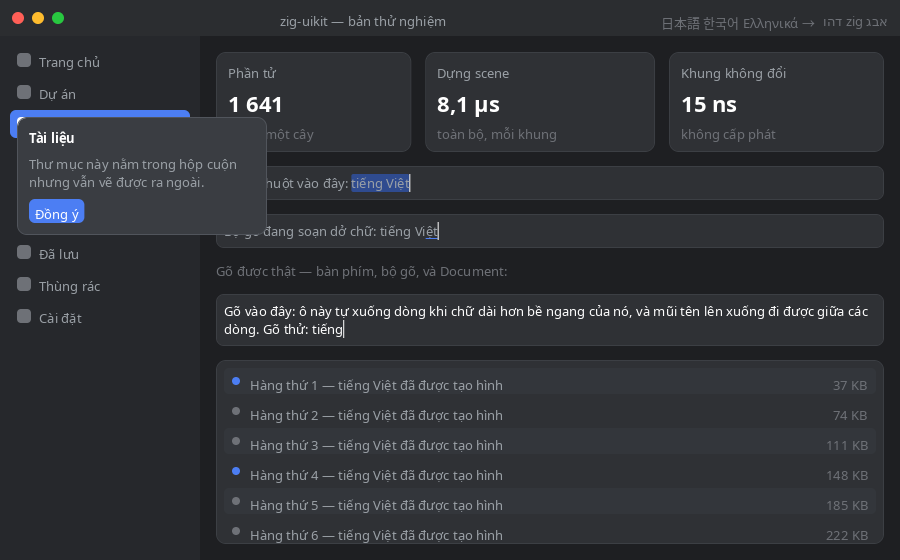
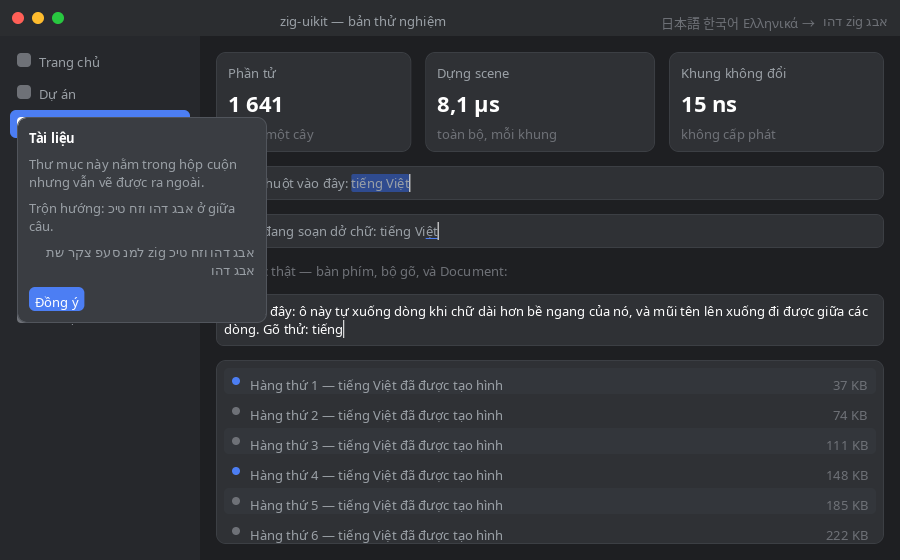
Setting a paragraph against an edge, and rule L1 finally has one to use
There was no way to centre a label, and a right-to-left paragraph was laid
out against the left edge -- the wrong one. `text_layout.Align` is `start`,
`end`, `left`, `right` and `center`, and `start` is the default because it is
the only value an application can choose without knowing which direction the
text it was handed runs in: the start of a right-to-left paragraph is its
right-hand edge.

The offset is added into the glyphs in a second pass over the line rather than
carried beside them. A line's `y` was already baked in; had `x` not been, the
scene builder, the caret, the hit test and the accessibility rectangles would
each have had to add it, and one of them would have forgotten. `Line.x` is
kept anyway, because a hit test past the end of a line needs to know where the
line is and not only how wide it is.

Three decisions, each in the README rather than only in the code:

- A line wider than its box starts at the box's left edge and overflows right,
  whatever the alignment. Centring it would push its beginning off the left,
  where nobody can read it.
- Aligned text is as wide as the box it was aligned in, because that is where
  its glyphs now are. Left-aligned text keeps the ink width it always had, so
  nothing laid out before this moved.
- A width of zero still means "do not wrap", so there is no box to align in
  and the alignment is ignored rather than measured against nothing.

And it finishes rule **L1**, which the last commit left approximate and said
[…]

Changed region(s): [[0.0, 0.3339, 0.3111, 0.5768]]

diff --git a/README.md b/README.md
@@ -10,7 +10,7 @@ A declarative GPU UI toolkit for Zig.
 > There are no widgets. Expect the API to change without notice.
 
 ```sh
-zig build test                           # 235 tests, no platform dependencies
+zig build test                           # 238 tests, no platform dependencies
 zig build demo                           # renders docs/demo.png in software
 zig build bench -Doptimize=ReleaseFast   # what it costs
 zig build test-text                      # 27 tests, needs a font installed
@@ -785,23 +785,55 @@ path costs about 4% more than the plain one, not a multiple of it: the sum
 over the glyphs it does per candidate break is small beside the breaking that
 both of them do.
 
-What is still approximate is the **trailing whitespace of a line in a
-right-to-left paragraph**. Rule L1 resets it to the paragraph's level, which
-puts it at the paragraph's trailing end; this puts it at the right-hand end,
-which is that rule for a left-to-right paragraph and an approximation for a
-right-to-left one — where, with no right-alignment, there is no trailing end
-for it to be at. The glyphs have no ink, so what moves is where a caret after
-them is drawn.
+### Setting a paragraph against an edge
+
+Everything above puts a line's glyphs in the right order; this is where the
+line goes. `text_layout.Align` is `start`, `end`, `left`, `right`, `center`,
+and **`start` is the default because it is the only one an application can
+choose without knowing which direction the text it was handed runs in**: the
+start of a right-to-left paragraph is its right-hand edge. A toolkit that made
+`left` the default would be asking every caller to answer a question about
+text it has never looked at.
+
+The offsets are added into the glyphs, in a second pass over the line, rather
+than carried beside them. A line's `y` was already baked in; had `x` not been,
+the scene builder, the caret, the hit test and the accessibility rectangles
+would each have had to add it, and one of them would have forgotten.
+
+Three decisions worth stating:
+
+- A line **wider than its box** starts at the box's left edge and overflows to
+  the right, whatever the alignment. Centring it would push its beginning off
+  the left, where nobody can read it; overflowing one way is visible.
+- Aligned text is **as wide as the box it was aligned in**, not as wide as its
+  widest line, because that is where its glyphs now are. Left-aligned text
+  keeps the ink width it always had, so nothing that was laid out before this
+  moved.
+- A width of zero still means "do not wrap", and then there is no box to align
+  in; the alignment is ignored rather than measured against nothing.
+
+And it finishes rule **L1**. The trailing whitespace of a wrapped line goes at
+the paragraph's *trailing* end, which for a right-to-left paragraph is its
+left — in front of the line's first character, hanging off the ink instead of
+indenting it. Until the line had a right edge to be set against, there was no
+honest place to put it: the previous commit put it on the right and said so.
+Now the caret before it is at the left end of the ink, which is where it
+belongs after every character on the line, and the caret before the line's
+first character is at the right end. Those two were the same x before.
+
+![a popover whose last paragraph is set against its right edge](docs/demo.png)
+
+The demo's popover ends with a Hebrew paragraph at `start`: it is set against
+the right, it wraps, and `zig` inside it still reads `zig`.
 
 ### What text does not do yet
 
-**Aligning a paragraph.** Every line starts at the left edge, which is the
-wrong edge for a right-to-left paragraph: such a paragraph should be set
-against the right of its box, and until it is, the trailing whitespace of a
-wrapped line in one has nowhere correct to go (below). Centring and
-justification are the same missing thing. Nothing in the layout engine
-prevents it — a line knows its ink width and the box knows its own — and it is
-not done rather than half-done.
+**Justifying a paragraph.** Alignment exists (below); justification does not.
+Stretching a line to reach both edges means deciding where the slack goes —
+between the words, inside them, or by stretching the glyphs themselves — and
+in a script with joined letters that is a shaping decision rather than a
+spacing one. It is a different piece of work, not a fifth value of the
+alignment enum, which is why it is not one.
 
 Wrapping needs a width given to it rather than discovered, and that is a
 real limitation and not a simplification for the demo. The width a paragraph
